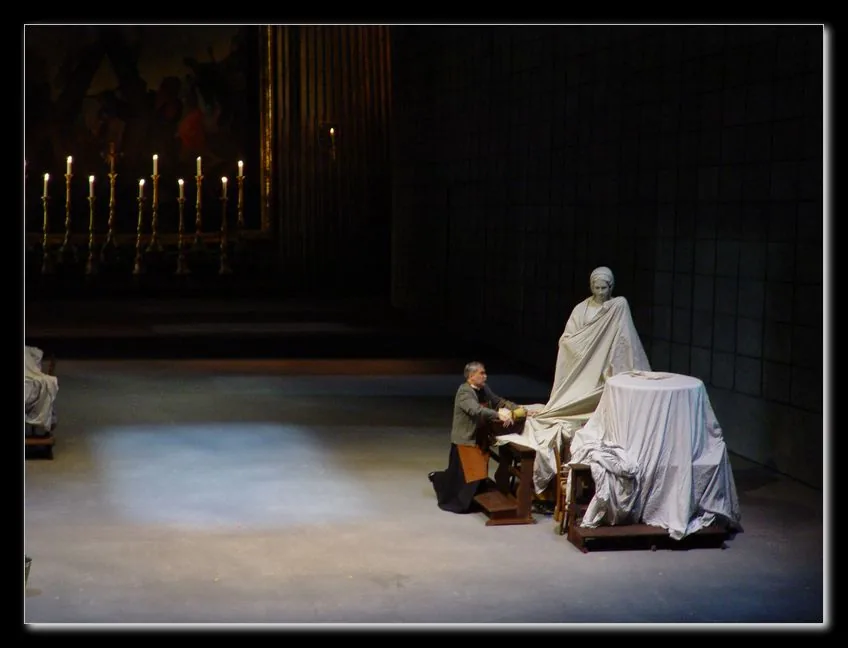
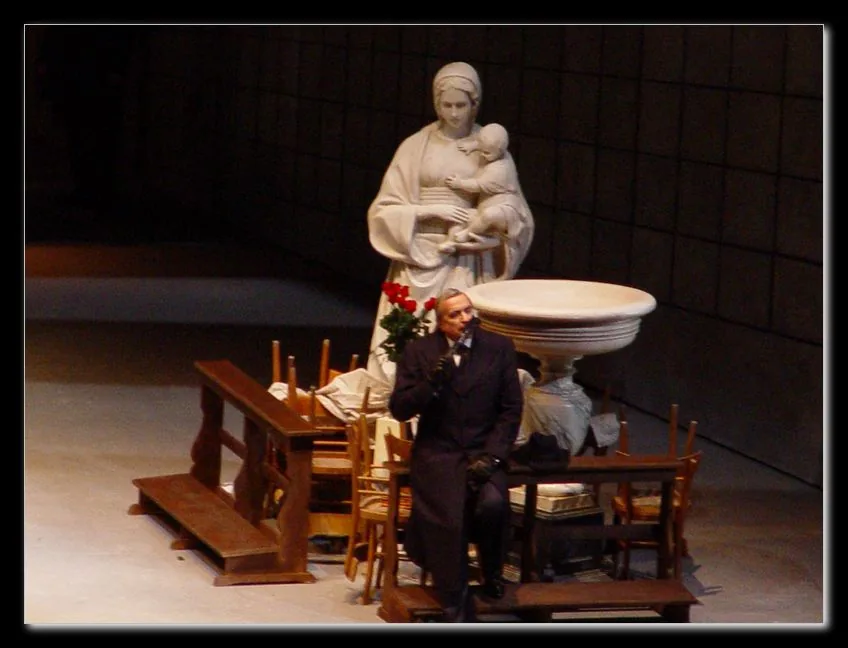
Tosca: hero + 10-foto galleria (Maggio Musicale Firenze 2005, Mehta)
Sostituito hero gradient stub con foto reale (Scarpia/Raimondi davanti
alla statua della Madonna - immagine iconica della produzione).
Rimosso CSS .proj-hero-stub inline.

NUOVA sezione "Galleria - Foto di scena" prima dei Tags:
- 10 foto della produzione Teatro Comunale di Firenze, primavera 2005
- Layout 3-col compact in print
- Intro IT/EN/FR descrive i tre luoghi pucciniani:
  Sant'Andrea della Valle + Palazzo Farnese + Castel Sant'Angelo
- Cast in tags: Urmana, Haddock, Raimondi

PDF dossier audit: 5 pagine editoriali, no orfani.

Sorgente: P:\FOTO SPETTACOLI\FOTO LAVORI\TOSCA

diff --git a/theatre/tosca.html b/theatre/tosca.html
@@ -23,7 +23,6 @@
   {"@context":"https://schema.org","@type":"TheaterEvent","name":"Tosca","description":"Tosca di Giacomo Puccini al Maggio Musicale Fiorentino, Teatro Comunale di Firenze, maggio 2005. Regia Giorgio Barberio Corsetti, scene Cristian Taraborrelli e Giorgio Barberio Corsetti, costumi Cristian Taraborrelli, video Fabio Massimo Iaquone, direzione musicale Zubin Mehta. Cast: Marcus Haddock (Mario Cavaradossi), Ruggero Raimondi (Scarpia), Violeta Urmana (Floria Tosca).","startDate":"2005-05","location":{"@type":"Place","name":"Teatro Comunale di Firenze","address":{"@type":"PostalAddress","addressLocality":"Firenze","addressCountry":"IT"}},"director":{"@type":"Person","name":"Giorgio Barberio Corsetti"},"contributor":[{"@type":"Person","name":"Cristian Taraborrelli","url":"https://www.cristiantaraborrellistudio.net","jobTitle":"Set Designer & Costume Designer"},{"@type":"Person","name":"Giorgio Barberio Corsetti","jobTitle":"Set Designer"},{"@type":"Person","name":"Fabio Massimo Iaquone","jobTitle":"Video Designer"},{"@type":"Person","name":"Zubin Mehta","jobTitle":"Conductor"}],"composer":{"@type":"Person","name":"Giacomo Puccini"},"performer":[{"@type":"Person","name":"Violeta Urmana","jobTitle":"Soprano — Floria Tosca"},{"@type":"Person","name":"Marcus Haddock","jobTitle":"Tenor — Mario Cavaradossi"},{"@type":"Person","name":"Ruggero Raimondi","jobTitle":"Bass-baritone — Barone Scarpia"}]}
   </script>
   <link rel="stylesheet" href="../css/style.css">
-  <style>.proj-hero-stub{background:linear-gradient(135deg,#0a0a0a 0%,#1f1410 50%,#3a1f15 100%);min-height:60vh;display:flex;align-items:center;justify-content:center;position:relative;overflow:hidden;}.proj-hero-stub::before{content:"";position:absolute;inset:0;background-image:radial-gradient(circle at 20% 30%,rgba(180,30,30,0.3),transparent 50%),radial-gradient(circle at 80% 70%,rgba(120,40,20,0.25),transparent 50%);}</style>
   <script type="application/ld+json">
   {"@context":"https://schema.org","@type":"BreadcrumbList","itemListElement":[{"@type":"ListItem","position":1,"name":"Home","item":"https://www.cristiantaraborrellistudio.net/"},{"@type":"ListItem","position":2,"name":"Opera & Teatro","item":"https://www.cristiantaraborrellistudio.net/theatre/"},{"@type":"ListItem","position":3,"name":"Tosca","item":"https://www.cristiantaraborrellistudio.net/theatre/tosca.html"}]}
   </script>
@@ -75,10 +74,14 @@
 </nav>
 <main class="page">
   <a href="../index.html" class="back-link" data-i18n="back-link" data-en="All works" data-it="Tutti i lavori" data-fr="Toutes les &oelig;uvres">All works</a>
-  <section class="proj-hero proj-hero-stub">
+  <section class="proj-hero">
+    <picture>
+      <source srcset="../images/tosca-01.webp" type="image/webp">
+      <img src="../images/tosca-01.jpg" alt="Tosca &mdash; Scarpia (Ruggero Raimondi) davanti alla statua della Madonna, scene Corsetti+Taraborrelli, costumi Cristian Taraborrelli, Maggio Musicale Fiorentino 2005, dir. Zubin Mehta" style="width:100%;height:100%;object-fit:cover;object-position:center;">
+    </picture>
     <div class="proj-hero-overlay"></div>
     <div class="proj-hero-content">
-      <p class="proj-hero-cat" data-i18n="hero-cat" data-en="Theatre &middot; Opera &middot; 2005" data-it="Teatro &middot; Opera &middot; 2005" data-fr="Th&eacute;&acirc;tre &middot; Op&eacute;ra &middot; 2005">Teatro &middot; Opera &middot; 2005</p>
+      <p class="proj-hero-cat" data-i18n="hero-cat" data-en="Opera &middot; Puccini &middot; Maggio Musicale &middot; 2005" data-it="Opera &middot; Puccini &middot; Maggio Musicale &middot; 2005" data-fr="Op&eacute;ra &middot; Puccini &middot; Maggio Musicale &middot; 2005">Opera &middot; Puccini &middot; Maggio Musicale &middot; 2005</p>
       <h1 class="proj-hero-title">Tosca</h1>
       <p class="proj-hero-meta" data-i18n="hero-meta" data-en="Giacomo Puccini &middot; Maggio Musicale Fiorentino &middot; dir. Zubin Mehta &middot; 2005" data-it="Giacomo Puccini &middot; Maggio Musicale Fiorentino &middot; dir. Zubin Mehta &middot; 2005" data-fr="Giacomo Puccini &middot; Maggio Musicale Fiorentino &middot; dir. Zubin Mehta &middot; 2005">Giacomo Puccini &middot; Maggio Musicale Fiorentino &middot; dir. Zubin Mehta &middot; 2005</p>
     </div>
@@ -157,10 +160,33 @@
       </div>
     </div>
 
+    <!-- GALLERY -->
+    <div class="proj-sec reveal">
+      <p class="s-label" data-i18n="s-gallery" data-en="Gallery &mdash; Stage Photos" data-it="Galleria &mdash; Foto di scena" data-fr="Galerie &mdash; Photos de sc&egrave;ne">Galleria &mdash; Foto di scena</p>
+      <div style="max-width:680px;margin-bottom:1.2rem;">
+        <div data-lang-block="it"><p style="font-family:var(--font-serif);font-size:0.95rem;line-height:1.7;color:var(--ink2);">Foto di scena della produzione del <strong>Maggio Musicale Fiorentino</strong>, primavera 2005. La scenografia di Cristian Taraborrelli e Giorgio Barberio Corsetti rilegge i tre luoghi di Puccini in chiave essenziale: <strong>Sant&rsquo;Andrea della Valle</strong> con statue, candele e quadri come dispositivo di pittura; <strong>Palazzo Farnese</strong> ridotto agli oggetti del potere di Scarpia; <strong>Castel Sant&rsquo;Angelo</strong> come piattaforma minimale all&rsquo;alba.</p></div>
+        <div data-lang-block="en"><p style="font-family:var(--font-serif);font-size:0.95rem;line-height:1.7;color:var(--ink2);">Stage photos from the spring 2005 Maggio Musicale Fiorentino production. Taraborrelli and Corsetti&rsquo;s scenography rereads Puccini&rsquo;s three settings in an essential key: Sant&rsquo;Andrea della Valle with statues, candles and paintings; Palazzo Farnese reduced to Scarpia&rsquo;s objects of power; Castel Sant&rsquo;Angelo as a minimal platform at dawn.</p></div>
+        <div data-lang-block="fr"><p style="font-family:var(--font-serif);font-size:0.95rem;line-height:1.7;color:var(--ink2);">Photos de sc&egrave;ne de la production du printemps 2005 du Maggio Musicale Fiorentino.</p></div>
+      </div>
+      <div class="gallery-grid" style="grid-template-columns:repeat(3,1fr);">
+        <div class="gallery-item"><picture><source srcset="../images/tosca-02.webp" type="image/webp"><img src="../images/tosca-02.jpg" alt="Tosca Atto I &mdash; Sant&rsquo;Andrea della Valle, Cavaradossi al cavalletto, scene Corsetti+Taraborrelli, Maggio Musicale Firenze 2005" loading="lazy"></picture></div>
+        <div class="gallery-item"><picture><source srcset="../images/tosca-03.webp" type="image/webp"><img src="../images/tosca-03.jpg" alt="Tosca &mdash; foto di scena, dir. Zubin Mehta, Maggio Musicale Firenze 2005" loading="lazy"></picture></div>
+        <div class="gallery-item"><picture><source srcset="../images/tosca-04.webp" type="image/webp"><img src="../images/tosca-04.jpg" alt="Tosca &mdash; Violeta Urmana nel ruolo del titolo, costumi Cristian Taraborrelli" loading="lazy"></picture></div>
+        <div class="gallery-item"><picture><source srcset="../images/tosca-05.webp" type="image/webp"><img src="../images/tosca-05.jpg" alt="Tosca &mdash; scena del Te Deum, regia Giorgio Barberio Corsetti, Firenze 2005" loading="lazy"></picture></div>
+        <div class="gallery-item"><picture><source srcset="../images/tosca-06.webp" type="image/webp"><img src="../images/tosca-06.jpg" alt="Tosca Atto II &mdash; Palazzo Farnese, Scarpia (Ruggero Raimondi) al tavolo" loading="lazy"></picture></div>
+        <div class="gallery-item"><picture><source srcset="../images/tosca-07.webp" type="image/webp"><img src="../images/tosca-07.jpg" alt="Tosca &mdash; duetto Tosca-Scarpia, video Fabio Massimo Iaquone" loading="lazy"></picture></div>
+        <div class="gallery-item"><picture><source srcset="../images/tosca-08.webp" type="image/webp"><img src="../images/tosca-08.jpg" alt="Tosca Atto III &mdash; Castel Sant&rsquo;Angelo all&rsquo;alba, Marcus Haddock (Cavaradossi)" loading="lazy"></picture></div>
+        <div class="gallery-item"><picture><source srcset="../images/tosca-09.webp" type="image/webp"><img src="../images/tosca-09.jpg" alt="Tosca &mdash; scena drammatica, costumi Cristian Taraborrelli, Maggio Musicale 2005" loading="lazy"></picture></div>
+        <div class="gallery-item"><picture><source srcset="../images/tosca-10.webp" type="image/webp"><img src="../images/tosca-10.jpg" alt="Tosca finale &mdash; il salto dal Castel Sant&rsquo;Angelo, scene Corsetti+Taraborrelli" loading="lazy"></picture></div>
+        <div class="gallery-item"><picture><source srcset="../images/tosca-11.webp" type="image/webp"><img src="../images/tosca-11.jpg" alt="Tosca &mdash; panoramica della scena, dir. Mehta, Teatro Comunale Firenze 2005" loading="lazy"></picture></div>
+      </div>
+      <p style="font-family:var(--font-sans);font-size:0.75rem;color:var(--muted);margin-top:1rem;text-align:right;">Foto archivio Cristian Taraborrelli Studio &middot; Maggio Musicale Fiorentino, primavera 2005</p>
+    </div>
+
     <!-- TAGS -->
     <div class="proj-sec reveal">
       <p class="s-label" data-i18n="s-tags" data-en="Tags" data-it="Tag" data-fr="Tags">Tags</p>
-      <div class="tags-row"><span class="tag">Tosca</span><span class="tag">Puccini</span><span class="tag">Zubin Mehta</span><span class="tag">Maggio Musicale Fiorentino</span><span class="tag">Firenze</span><span class="tag">Giorgio Barberio Corsetti</span><span class="tag">Fabio Massimo Iaquone</span><span class="tag">2005</span><span class="tag">Sodalizio Corsetti</span><span class="tag">Verismo</span><span class="tag">Sardou</span><span class="tag">Roma 1800</span><span class="tag">Scenografia</span><span class="tag">Costumi</span></div>
+      <div class="tags-row"><span class="tag">Tosca</span><span class="tag">Puccini</span><span class="tag">Zubin Mehta</span><span class="tag">Maggio Musicale Fiorentino</span><span class="tag">Firenze</span><span class="tag">Giorgio Barberio Corsetti</span><span class="tag">Fabio Massimo Iaquone</span><span class="tag">Violeta Urmana</span><span class="tag">Marcus Haddock</span><span class="tag">Ruggero Raimondi</span><span class="tag">2005</span><span class="tag">Sodalizio Corsetti</span><span class="tag">Verismo</span><span class="tag">Sardou</span><span class="tag">Roma 1800</span></div>
     </div>
 
   